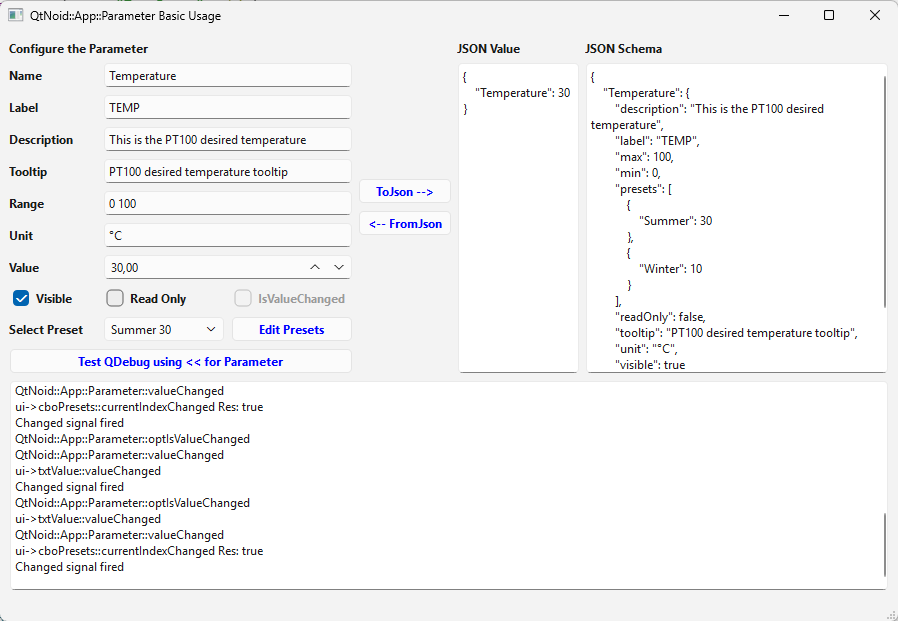
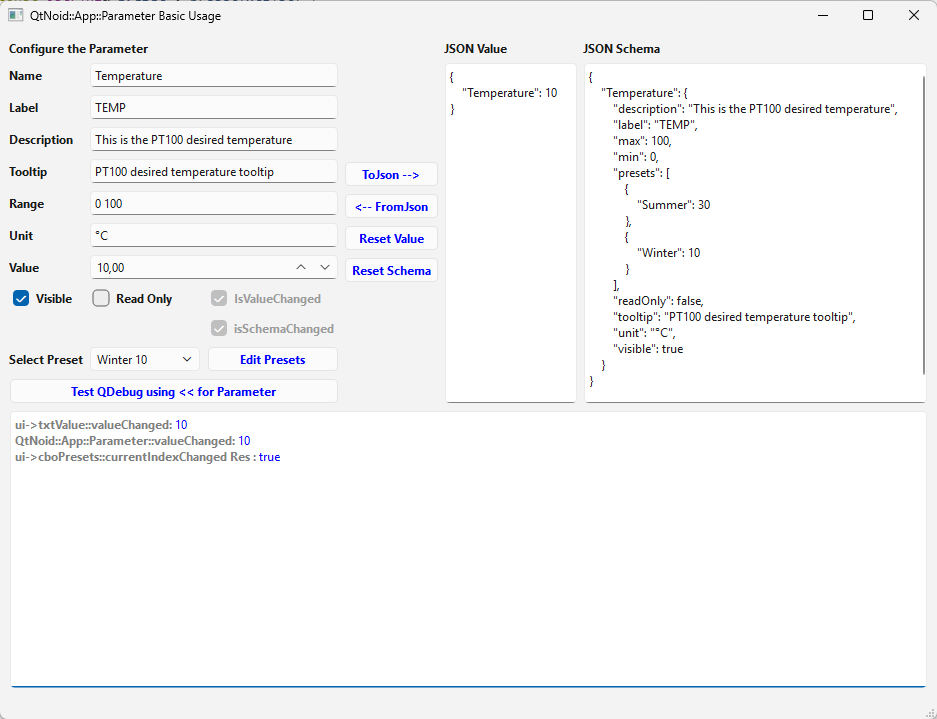
AppParamterBasicUsage updated

diff --git a/Examples/AppParameterBasicUsage/mainwindow.cpp b/Examples/AppParameterBasicUsage/mainwindow.cpp
@@ -3,12 +3,14 @@
 #include "presetsdialog.h"
 #include <QJsonObject>
 #include <QDebug>
+#include <QScrollBar>
 
 MainWindow::MainWindow(QWidget *parent)
     : QMainWindow(parent)
     , ui(new Ui::MainWindow)
 {
     ui->setupUi(this);
+    // ui->txtLog->setFont(QFontDatabase::systemFont(QFontDatabase::FixedFont));
     setWindowTitle("QtNoid::App::Parameter Basic Usage");
     restoreGeometry(appConfig->restoreAsByteArray("geometry", saveGeometry()));
     ui->splitter->restoreState(appConfig->restoreAsByteArray("splitter", ui->splitter->saveState()));
@@ -20,55 +22,55 @@ MainWindow::MainWindow(QWidget *parent)
     // Listening to UI modifications
     connect(ui->txtName, &QLineEdit::textChanged, this,
             [&](const QString& val){
-                updateStatusBar("ui->txtName::textChanged " + val);
+                updateStatusBar("ui->txtName::textChanged", val);
                 m_parameter.setName(val);
             });
     connect(ui->txtLabel, &QLineEdit::textChanged, this,
             [&](const QString& val){
-                updateStatusBar("ui->txLabel::textChanged " + val);
+                updateStatusBar("ui->txLabel::textChanged", val);
                 m_parameter.setLabel(val);
             });
 
     connect(ui->txtDescription, &QLineEdit::textChanged, this,
             [&](const QString& val){
-                updateStatusBar("ui->txtDescription::textChanged " + val);
+                updateStatusBar("ui->txtDescription::textChanged", val);
                 m_parameter.setDescription(val);
             });
     connect(ui->txtTooltip, &QLineEdit::textChanged, this,
             [&](const QString& val){
-                updateStatusBar("ui->txtTooltip::textChanged " + val);
+                updateStatusBar("ui->txtTooltip::textChanged", val);
                 m_parameter.setTooltip(val);
             });
     connect(ui->txtRange, &QLineEdit::textChanged, this,
             [&](const QString& val){
-                updateStatusBar("ui->txtRange::textChanged " + val);
+                updateStatusBar("ui->txtRange::textChanged", val);
                 setRangeFromText(val);
             });
     connect(ui->txtUnit, &QLineEdit::textChanged, this,
             [&](const QString& val){
-                updateStatusBar("ui->txtUnit::textChanged " + val);
+                updateStatusBar("ui->txtUnit::textChanged", val);
                 m_parameter.setUnit(val);
             });
     connect(ui->txtValue, &QDoubleSpinBox::valueChanged, this,
             [&](double val){
-                updateStatusBar("ui->txtValue::valueChanged "  + QString::number(val));
+                updateStatusBar("ui->txtValue::valueChanged", QString::number(val));
                 m_parameter.setValue(val);
             });
     connect(ui->optReadOnly, &QCheckBox::clicked, this,
             [&](bool val){
-                updateStatusBar("ui->optReadOnly::clicked " + QString(val? "true" : "false"));
+                updateStatusBar("ui->optReadOnly::clicked", QString(val? "true" : "false"));
                 m_parameter.setReadOnly(val);
             });
     connect(ui->optVisible, &QCheckBox::clicked, this,
             [&](bool val){
-                updateStatusBar("ui->optVisible::clicked" + QString(val? "true" : "false"));
+                updateStatusBar("ui->optVisible::clicked", QString(val? "true" : "false"));
                 m_parameter.setVisible(val);
             });
     connect(ui->cboPresets, &QComboBox::activated, this,
              [&](){
                 auto presetName = ui->cboPresets->currentText().split(" ").first();
                 QVariant res = m_parameter.applyPreset(presetName);
-                updateStatusBar("ui->cboPresets::currentIndexChanged Res: " + res.toString());
+                updateStatusBar("ui->cboPresets::currentIndexChanged Res ", res.toString());
             });
 
     // -------------------------------------
@@ -76,67 +78,67 @@ MainWindow::MainWindow(QWidget *parent)
     connect(&m_parameter, &QtNoid::App::Parameter::isSchemaModifiedChanged, this,
             [&](bool val){
                 ui->optSchemaChanged->setChecked(val);
-                updateStatusBar("isSchemaModifiedChanged signal fired " + QString(val ? "true" : "false"));
+                updateStatusBar("isSchemaModifiedChanged signal fired", QString(val ? "true" : "false"));
             });
     connect(&m_parameter, &QtNoid::App::Parameter::nameChanged, this,
             [&](QString val){
                 ui->txtName->setText((val));
-                updateStatusBar("QtNoid::App::Parameter::nameChanged " + val);
+                updateStatusBar("QtNoid::App::Parameter::nameChanged", val);
                 convertToJson();
             });
     connect(&m_parameter, &QtNoid::App::Parameter::labelChanged, this,
             [&](QString val){
                 ui->txtLabel->setText((val));
-                updateStatusBar("QtNoid::App::Parameter::labelChanged " + val);
+                updateStatusBar("QtNoid::App::Parameter::labelChanged", val);
                 convertToJson();
             });
     connect(&m_parameter, &QtNoid::App::Parameter::descriptionChanged, this,
             [&](QString val){
                 ui->txtDescription->setText((val));
-                updateStatusBar("QtNoid::App::Parameter::descriptionChanged " + val);
+                updateStatusBar("QtNoid::App::Parameter::descriptionChanged", val);
                 convertToJson();
             });
     connect(&m_parameter, &QtNoid::App::Parameter::tooltipChanged, this,
             [&](QString val){
                 ui->txtTooltip->setText((val));
-                updateStatusBar("QtNoid::App::Parameter::tooltipChanged "  + val);
+                updateStatusBar("QtNoid::App::Parameter::tooltipChanged", val);
                 convertToJson();
             });
     connect(&m_parameter, &QtNoid::App::Parameter::rangeChanged, this,
             [&](const QVariant& min, const QVariant& max){
                 QString range = QString("%1 %2").arg(min.toString(), max.toString());
                 ui->txtRange->setText(range);
-                updateStatusBar("QtNoid::App::Parameter::rangeChanged " + range);
+                updateStatusBar("QtNoid::App::Parameter::rangeChanged", range);
                 convertToJson();
             });
     connect(&m_parameter, &QtNoid::App::Parameter::unitChanged, this,
             [&](QString val){
                 ui->txtUnit->setText((val));
-                updateStatusBar("QtNoid::App::Parameter::unitChanged " + val);
+                updateStatusBar("QtNoid::App::Parameter::unitChanged", val);
                 convertToJson();
             });
     connect(&m_parameter, &QtNoid::App::Parameter::valueChanged, this,
             [&](QVariant val){
                 ui->txtValue->setValue(val.toDouble());
-                updateStatusBar("QtNoid::App::Parameter::valueChanged " + val.toString());
+                updateStatusBar("QtNoid::App::Parameter::valueChanged", val.toString());
                 convertToJson();
             });
     connect(&m_parameter, &QtNoid::App::Parameter::readOnlyChanged, this,
             [&](bool val){
                 ui->optReadOnly->setChecked(val);
-                updateStatusBar("QtNoid::App::Parameter::readOnlyChanged "+ QString(val ? "true" : "false"));
+                updateStatusBar("QtNoid::App::Parameter::readOnlyChanged", QString(val ? "true" : "false"));
                 convertToJson();
             });    
     connect(&m_parameter, &QtNoid::App::Parameter::visibleChanged, this,
             [&](bool val){
                 ui->optVisible->setChecked(val);
-                updateStatusBar("QtNoid::App::Parameter::visibleChanged "+ QString(val ? "true" : "false"));
+                updateStatusBar("QtNoid::App::Parameter::visibleChanged", QString(val ? "true" : "false"));
                 convertToJson();
             });
     connect(&m_parameter, &QtNoid::App::Parameter::isValueModifiedChanged, this,
             [&](bool val){
                 ui->optIsValueChanged->setChecked(val);
-                updateStatusBar("QtNoid::App::Parameter::optIsValueChanged " + QString(val? "true" : "false"));
+                updateStatusBar("QtNoid::App::Parameter::optIsValueChanged", QString(val? "true" : "false"));
             });
     connect(&m_parameter, &QtNoid::App::Parameter::presetsChanged, this,
             [&](const QVariantMap&){
@@ -146,7 +148,7 @@ MainWindow::MainWindow(QWidget *parent)
     // Listening to m_paramter errors
     connect(&m_parameter, &QtNoid::App::Parameter::writeAttemptedWhileReadOnly, this,
             [&](const QString& val, const QVariant& current) {
-            updateStatusBar("QtNoid::App::Parameter::writeAttemptedWhileReadOnly " + current.toString());
+            updateStatusBar("QtNoid::App::Parameter::writeAttemptedWhileReadOnly", current.toString());
             ui->txtValue->setValue(current.toFloat());
     });
 
@@ -271,11 +273,31 @@ void MainWindow::setPresetsFromText(const QString &val)
     }
 }
 
-void MainWindow::updateStatusBar(const QString &msg)
+void MainWindow::updateStatusBar(const QString &msg, const QString &value)
 {
-    ui->txtLog->appendPlainText(msg);
-}
+    QTextCursor cursor(ui->txtLog->document());
+    cursor.movePosition(QTextCursor::End);
 
+    if (!ui->txtLog->document()->isEmpty())
+        cursor.insertBlock();               // Add a new row after
+
+    QTextCharFormat msgFormat;
+    msgFormat.setForeground(Qt::darkGray);
+    msgFormat.setFontWeight(QFont::Bold);
+    cursor.insertText(msg, msgFormat);
+
+    if(!value.isEmpty()){
+        cursor.insertText(": ", msgFormat);
+    }
+
+    QTextCharFormat valueFormat;
+    valueFormat.setForeground(QColor(Qt::blue));
+    cursor.insertText(value, valueFormat);
+
+    // Scroll to the end without changing user selection
+    auto *sb = ui->txtLog->verticalScrollBar();
+    sb->setValue(sb->maximum());
+}
 
 void MainWindow::on_cmdQDebug_clicked()
 {

diff --git a/Examples/AppParameterBasicUsage/mainwindow.h b/Examples/AppParameterBasicUsage/mainwindow.h
@@ -31,7 +31,7 @@ private slots:
 private:
     void setRangeFromText(const QString& val);
     void setPresetsFromText(const QString& val);
-    void updateStatusBar(const QString& msg);
+    void updateStatusBar(const QString& msg, const QString &value = {});
 
 private:
     Ui::MainWindow *ui;

diff --git a/DEVELOPMENT.md b/DEVELOPMENT.md
@@ -23,7 +23,6 @@
 
 
 # Da fare
-	-> finisci esempio QtNoid App Parameter Basic Usage
 	-> continua il controllo delle classi partendo da ConfigFile (implementazione, test, documentazione)
 
 # Progress Status
